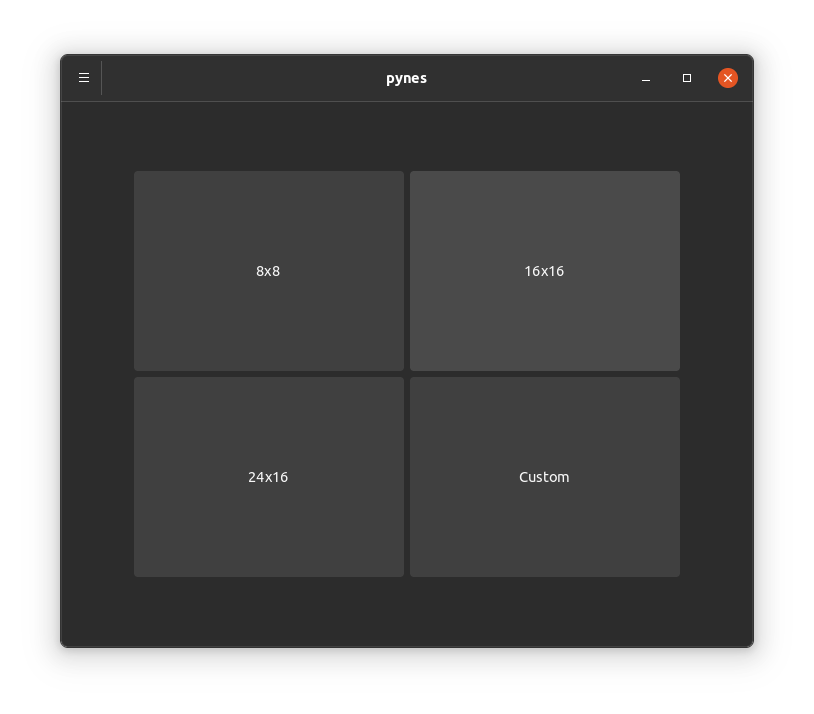
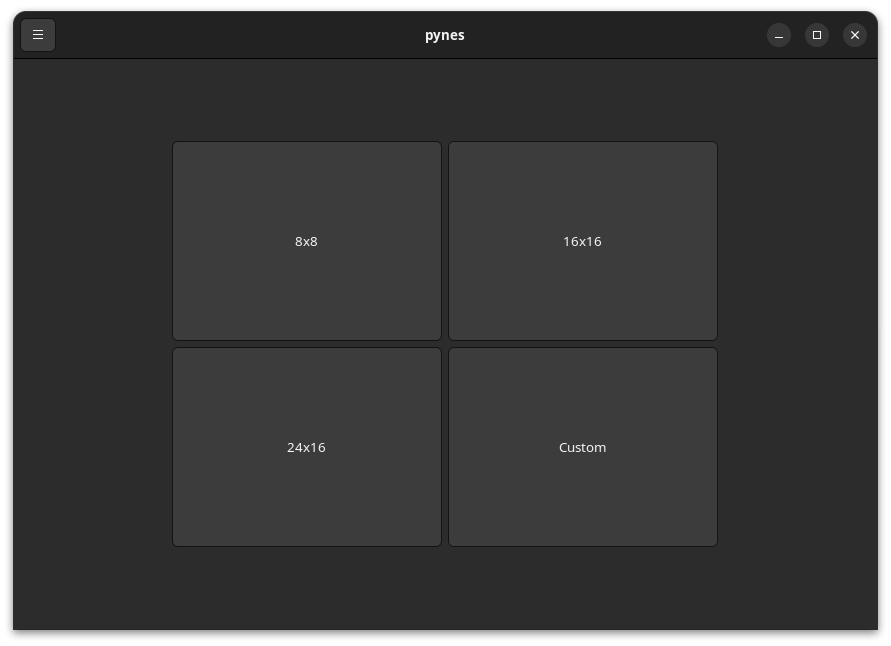
bump: v3.1.0

diff --git a/pynes/ui/style.css b/pynes/ui/style.css
@@ -78,13 +78,6 @@
   font-weight: 500;
 }
 
-#menu-button{
-  border-right: 1px solid #555555;
-}#menu-button:hover{
-  border-right: none;
-}
-
-
 #tile-won {
   background-color: rgba(80, 214, 112, 0.502);
 }
@@ -110,5 +103,5 @@
 }
 
 #pref-main-box {
-  padding: 5px;
+  padding: 15px;
 }

diff --git a/pynes/constants.py b/pynes/constants.py
@@ -1,4 +1,5 @@
 import os
+import re
 
 PATH = "/".join(__file__.split("/")[:-1])
 
@@ -8,11 +9,14 @@ STYLE    = open(f'{PATH}/ui/style.css').read()
 ICON_DIR = f'{PATH}/ui/'
 CONFIG_DIR = os.path.expanduser("~/.config/pynes" )
 AnimationDir = os.path.join(os.path.expanduser(CONFIG_DIR), "animation")
-ANIMATE = False
+
+_re_results = re.findall(r'\d', open(AnimationDir).read())
+ANIMATE = True if len(_re_results) > 0 and int(_re_results[0]) == 1 else False
 
 class ICON:
-    FLAGGED = os.path.join(ICON_DIR, 'flagged.png')
-    BOMB = os.path.join(ICON_DIR, 'bomb.png')
+    FLAGGED = os.path.join(ICON_DIR, 'flagged.svg')
+    UNSURE = os.path.join(ICON_DIR, 'flagged-unsure.svg')
+    BOMB = os.path.join(ICON_DIR, 'bomb.svg')
 
 class CSS_FILES:
     MAIN_COLORS = f'{PATH}/ui/colors.css'

diff --git a/setup.py b/setup.py
@@ -18,7 +18,7 @@ os.system('chmod +777 scripts/pynes')
 
 setup(
     name="pynes",
-    version="3.0.0",
+    version="3.1.0",
     author="AstralDev",
     author_email="ekureedem480@gmail.com",
     description='A simple python mine game',
@@ -32,7 +32,7 @@ setup(
     packages=['pynes'],
     package_data={
         'pynes':['ui/style.css', 'ui/style.css', 'ui/colors.css', 'ui/menu.xml',
-                     'ui/bomb.png', 'ui/flagged.png']
+                     'ui/bomb.svg', 'ui/flagged.svg', 'ui/flagged-unsure.svg']
     },
     data_files=[
         ("share/applications", ["org.astralco.pyne.desktop"]),

diff --git a/build_deb.py b/build_deb.py
@@ -4,7 +4,7 @@ import pathlib
 import sys
 
 pkg = 'pynes'
-version='3.0.0'
+version='3.1.0'
 here = pathlib.Path(__file__).parent
 email = 'ekureedem480@gmail.com'
 full_name = 'Ekure Edem'

diff --git a/CHANGELOG.md b/CHANGELOG.md
@@ -1,0 +1,10 @@
+## Changelog
+
+- **v3.1.0**
+  - Redesigned preference window
+  - Redesigned leaderboard window
+  - Fixed animation issues for large tiles
+  - Change congratulation message
+  - Added an svg for unsure state of mine selection
+  - Fix issue of resetting preference not updating styles
+  

diff --git a/README.md b/README.md
@@ -1,5 +1,6 @@
 # Pynes
-by AstralDev
+
+Mines for lines
 
 ## Description
 Pynes is a PyGtk (Gtk 4) based mine game. It is a basic mine game with different levels with adjustable difficulty.
